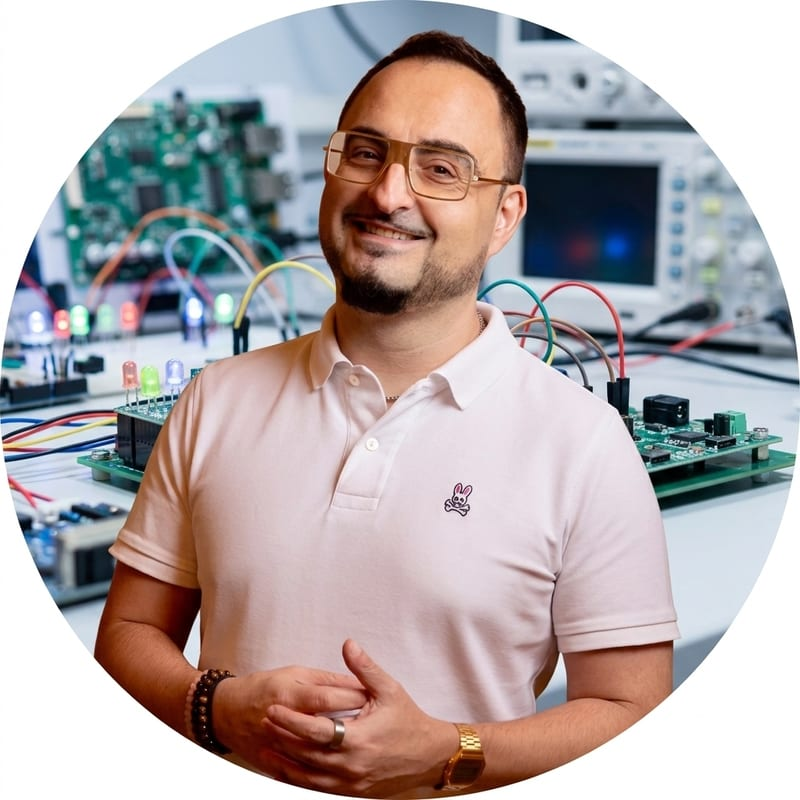
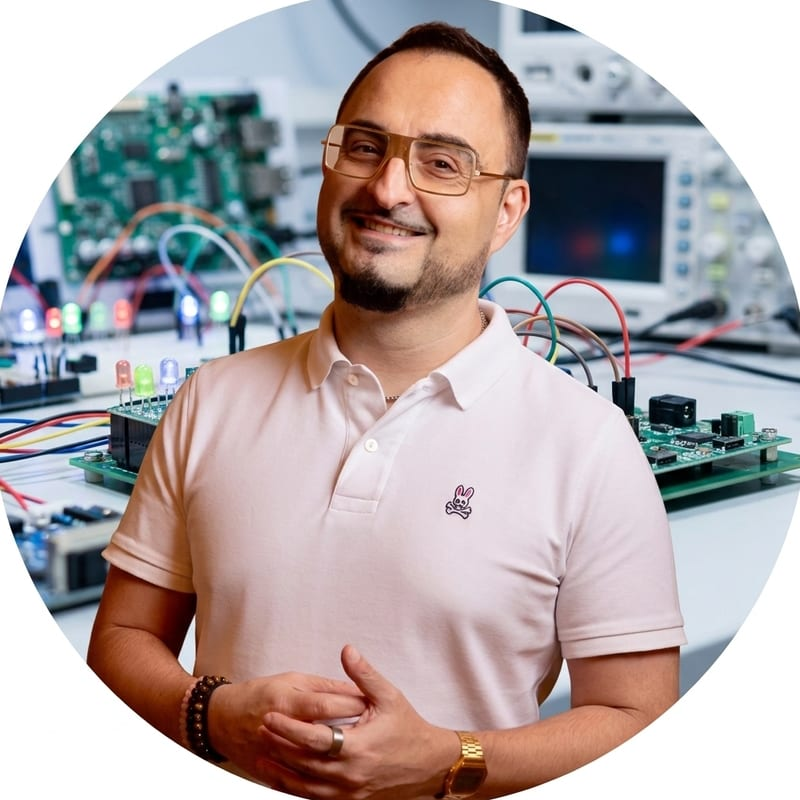
Fix About portrait: render as circle instead of circle-in-white-square
The source photo is circle-cropped on a white background, so the rounded
square card showed white corners. Crop 1.2% inward to remove the white
anti-aliased fringe and mask the image with rounded-full.

Claude-Session: https://claude.ai/code/session_01TB4SWrqaHAg9YgtTosKrup

diff --git a/src/app/about/page.tsx b/src/app/about/page.tsx
@@ -54,7 +54,7 @@ export default function AboutPage() {
             alt={SITE_CONFIG.author.name}
             width={160}
             height={160}
-            className="rounded-2xl object-cover border border-[var(--border)]"
+            className="rounded-full object-cover border border-[var(--border-strong)]"
             priority
           />
         </div>
